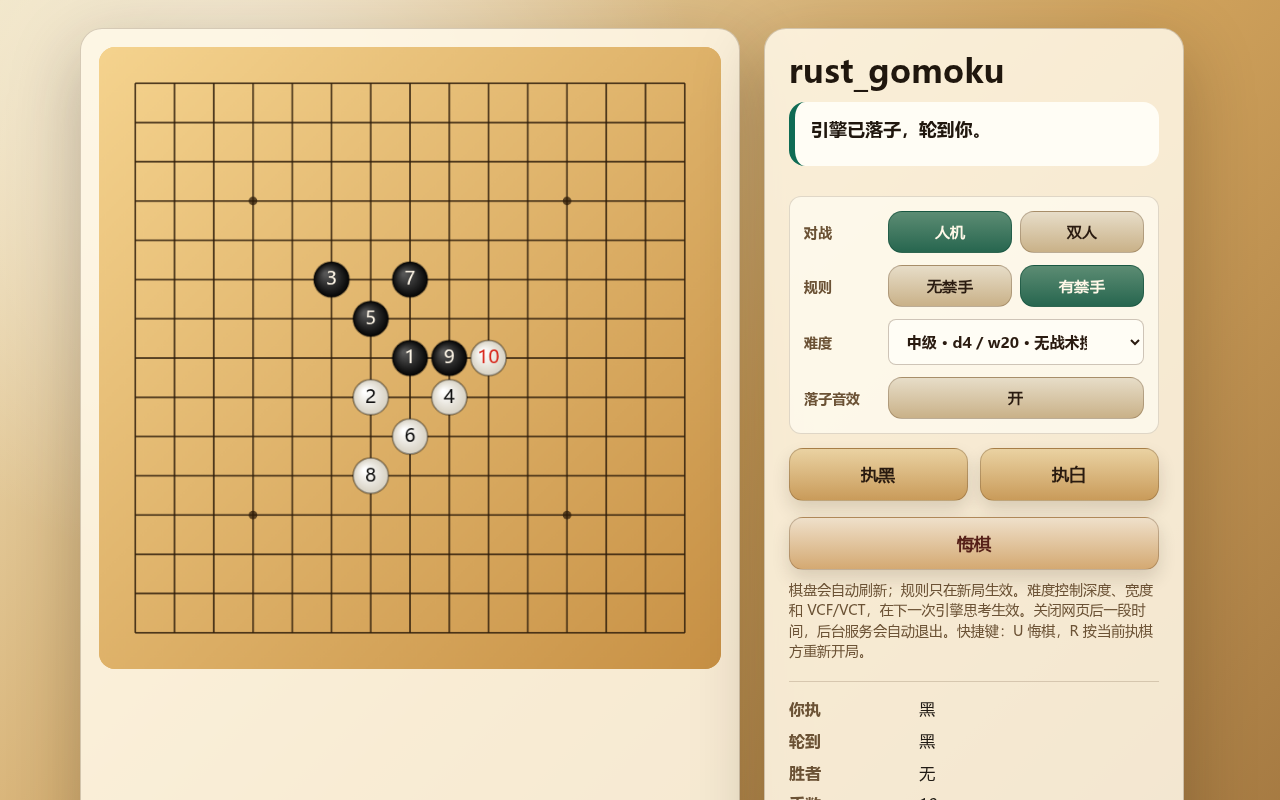
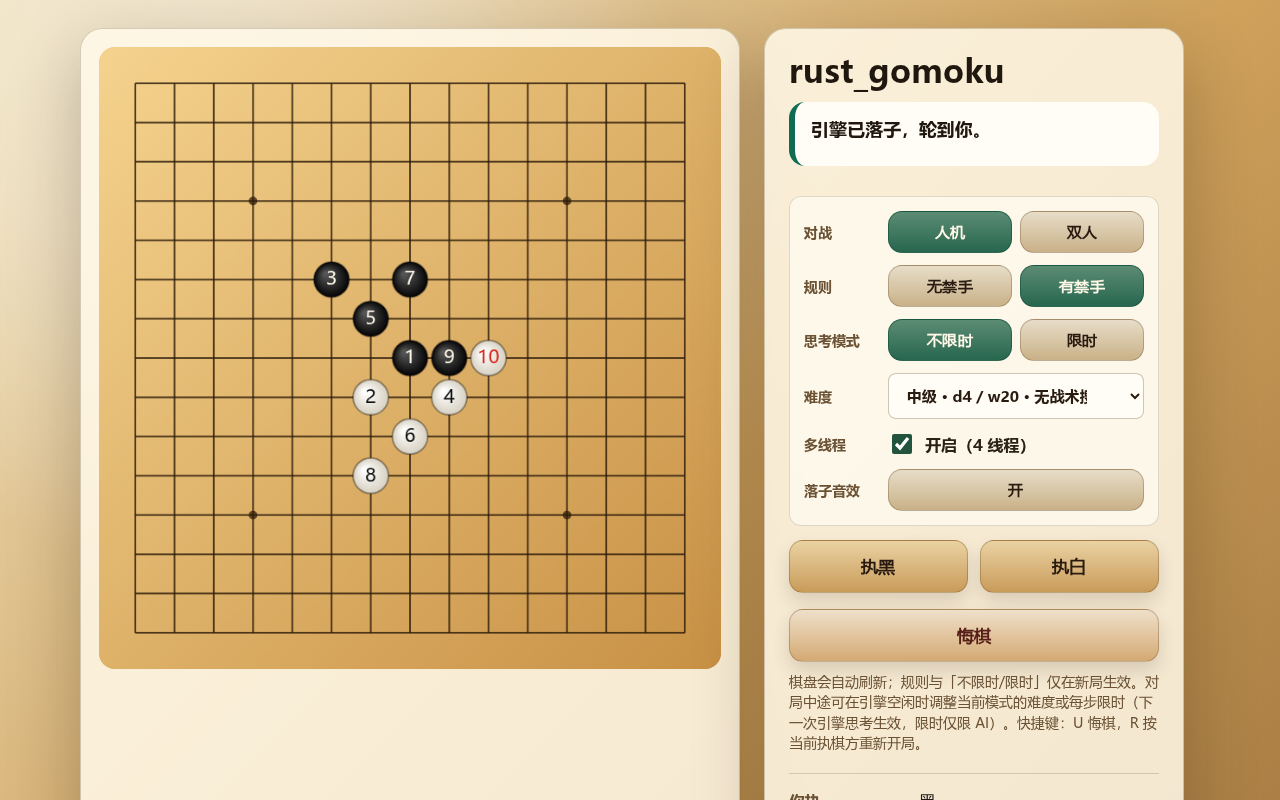
Update READMEs and desktop GUI screenshot for v0.1.16

Changed region(s): [[0.5938, 0.375, 0.9062, 1.0]]

diff --git a/README-cn.md b/README-cn.md
@@ -4,17 +4,17 @@
 
 ## 界面截图
 
-Windows x64 程序和已签名的 Android ARM64 APK 可从[最新 Release](https://github.com/chubbyk-uu/rust-gomoku/releases/latest)下载。
+Windows x64 程序和已签名的 Android ARM64 APK / AAB 可从[最新 Release](https://github.com/chubbyk-uu/rust-gomoku/releases/latest)下载。
 
 ### Windows / 桌面 GUI
 
-Windows 程序启动后打开本地网页界面。可与引擎对弈或进行双人对局，在右侧选择无禁手或连珠规则、调整难度。
+Windows 程序启动后打开本地网页界面。可与引擎对弈或进行双人对局，在右侧选择无禁手或连珠规则、切换不限时（五档难度）或限时（每步时间上限）思考模式，并可开关多线程搜索。
 
-![桌面 GUI：与引擎对弈，右侧提供规则与难度设置](docs/screenshots/desktop-gui.png)
+![桌面 GUI：与引擎对弈，右侧提供规则、思考模式、难度与多线程设置](docs/screenshots/desktop-gui.png)
 
 ### Android
 
-手机界面集中展示棋盘、当前回合，以及悔棋和新局操作。提供入门、初级、中级、高级、大师五档难度，默认中级。
+手机界面集中展示棋盘、当前回合，以及悔棋和新局操作。支持不限时（入门、初级、中级、高级、大师五档难度，默认中级）和限时（每步 `200 ms`–`5000 ms`）两种思考模式，以及多线程搜索开关。
 
 <p>
   <img src="docs/screenshots/android-portrait.png" alt="Android 竖屏界面：连珠对局进行中" width="320">
@@ -38,6 +38,8 @@ Windows 程序启动后打开本地网页界面。可与引擎对弈或进行双
 - Rust/reference 差分、Rust/reference 对战、双引擎对战和同局面 benchmark 脚手架。
 - 连珠 oracle、定向密集压测、一维穷举、候选诊断、性能测试和规则感知对局裁判工具。
 - 非 root 候选排序成本优化：保持原排序 key 不变，减少 `getmi` 和候选复制开销（惰性 tie-group `getmi` + TT best move 延迟主排序）。
+- 四方向增量 `Pattern4` 位棋盘/LUT 战术加速（VCF 与 VCT），在连珠密集 VCT6 局面提速 `5.5x`–`8.6x`，包含精确连珠活三超集过滤（`maybe_33`）及白棋 `B4` 落子后对黑方禁手防点的复验。
+- 多线程 ABDADA 搜索（`--threads N` / `INFO thread_num N`），配备 `1/64` 层细粒度 TT 深度编码（`store = floor(d * 64)`、`probe = ceil(d * 64)`，编码上限 50 层；超过 50 层仅使用 TT 走法提示）、完整子层替换优先级，以及按单/多线程模式隔离的双平面共享置换表。
 - SlowRenju、Rapfi 等外部参考引擎按需从本地 checkout 使用；仓库不再提交轻量对手或完整 Python reference。
 
 可选诊断/实验：
@@ -49,8 +51,8 @@ Windows 程序启动后打开本地网页界面。可与引擎对弈或进行双
 GUI 入口仅在单线程（`--threads 1`）手动对局时默认开启 `overlap_vct_alphabeta`；多线程模式下保持关闭以避免额外 64 MiB TT 快照与核心争抢。Gomocup、diff、case probe 和库默认均保持关闭。
 历史性能实验和止损结论记录在 `docs/perf-log.md`，README 不重复维护失败方案清单。
 Android 架构、手机界面、JNI 边界和分阶段验证门槛记录在
-`docs/android-app-design.md`。Android 应用已可构建 ARM64 APK，并通过
-JNI 使用共享 Rust 控制器。
+`docs/android-app-design.md`。Android 应用可构建 ARM64 debug 与已签名
+release 产物（APK / AAB），并通过 JNI 使用共享 Rust 控制器。
 
 ## 默认参数
 
@@ -76,7 +78,9 @@ JNI 使用共享 Rust 控制器。
 | `static_board` | 开启 |
 | `dynamic_board_margin` | `4` |
 
-桌面 GUI 和 Android 应用提供五档共享难度：
+桌面 GUI 和 Android 应用支持两种思考模式：
+
+1. **不限时模式**（默认）——提供五档共享固定深度难度：
 
 | 难度 | 搜索参数 | VCF / VCT |
 |---|---:|---:|
@@ -87,6 +91,8 @@ JNI 使用共享 Rust 控制器。
 | 大师 | `d8 / w40` | 开启，`root_vct_depth=6` |
 
 中级是桌面 GUI 和 Android 应用的默认难度。难度控制深度、宽度和战术搜索。
+
+2. **限时模式**——提供每步时间上限档位（`200 ms`、`500 ms`、`1000 ms`、`2000 ms`、`5000 ms`，默认 `500 ms`），在 `w40` 下迭代加深至最多 `d25` 并开启 VCF/VCT（限时模式下 root VCT 最多使用整手预算的 30%，确保未算杀成功时 alpha-beta 仍有充足搜索时间）。
 
 与 Python reference 严格差分或复现实验时，通常显式使用 `depth=6,width=20,root_vct_depth=4`。
 
@@ -122,6 +128,16 @@ cargo test --quiet
 python3 scripts/run_diff.py --jobs 10
 ```
 
+Android debug/release 验证与构建：
+
+```bash
+cd android
+./gradlew test lint assembleDebug
+./gradlew test lint assembleRelease bundleRelease
+```
+
+Release 签名默认读取 `~/.android/rust-gomoku-release.properties`；本地签名文件格式和覆盖环境变量详见 `docs/android-app-design.md`。
+
 Gomocup smoke：
 
 ```bash
@@ -135,7 +151,7 @@ printf 'START 15\nINFO rule 4\nBEGIN\nEND\n' | cargo run --quiet --bin gomocup_e
 cargo run --release --bin gomoku_gui
 ```
 
-GUI 会自动用默认浏览器打开 `http://127.0.0.1:18080`；如需关闭自动打开行为，可加 `--no-open-browser`。GUI 支持人机对战（执黑/执白）和双人对弈（两人在同一棋盘轮流落子、不启动引擎）两种对战模式，无禁手或连珠规则、五档难度、悔棋、重新开局、异步思考、手数显示、胜负弹窗和状态面板；快捷键 `U` 悔棋，`R` 重新开局。双人模式下会隐藏仅人机模式有意义的控件（执棋、难度）。规则选择只在新局开始时生效；连珠黑方回合会用红叉标出禁手点，点击禁手点会被拒绝且不会落子（两种模式都如此）。难度只在引擎未思考时允许切换，不重置当前棋局，只影响下一次引擎思考。
+GUI 会自动用默认浏览器打开 `http://127.0.0.1:18080`；如需关闭自动打开行为，可加 `--no-open-browser`。GUI 支持人机对战（执黑/执白）和双人对弈（两人在同一棋盘轮流落子、不启动引擎）两种对战模式，无禁手或连珠规则、不限时（五档难度）和限时（每步 `200 ms`–`5000 ms`）两种思考模式、多线程搜索开关、悔棋、重新开局、异步思考、手数显示、胜负弹窗和状态面板；快捷键 `U` 悔棋，`R` 重新开局。双人模式下会隐藏仅人机模式有意义的控件（执棋、思考模式、难度/每步限时、多线程）。空棋盘时切换对战模式、规则或思考模式会立即生效；落子后（`move_count > 0`）切换会显示待生效提示，并在点击开局按钮开始新局时生效。连珠黑方回合会用红叉标出禁手点，点击禁手点会被拒绝且不会落子（两种模式都如此）。难度、每步限时和多线程开关可在对局中途引擎空闲时随时调整，不重置当前棋局，只影响下一次引擎思考。
 
 Gomocup engine：
 
@@ -170,7 +186,7 @@ target/release/gomocup_engine --tt-bits 22
 - `INFO root_profile 0|1`
 
 VCF、VCT 与 alpha-beta 在一手棋内共用截止时间和累计节点预算。同时给出
-`timeout_turn` 与 `time_left` 时取较小值。搜索采用协作式中止，完成当前棋盘
+`timeout_turn` 与 `time_left` 时取较小值；限时搜索下 root VCT 子预算上限为整手预算的 30%，确保未算杀时留出 alpha-beta 搜索时间。搜索采用协作式中止，完成当前棋盘
 操作、选择合法后备手及协议初始化仍可能产生额外耗时。限额搜索报告的节点数
 包含战术节点，无限额搜索沿用 alpha-beta 节点数。
 

diff --git a/README.md b/README.md
@@ -6,17 +6,17 @@ A Chinese version of this document is available at [README-cn.md](README-cn.md).
 
 ## Screenshots
 
-Download the Windows x64 program and signed Android ARM64 APK from the [latest release](https://github.com/chubbyk-uu/rust-gomoku/releases/latest).
+Download the Windows x64 program and signed Android ARM64 APK / AAB from the [latest release](https://github.com/chubbyk-uu/rust-gomoku/releases/latest).
 
 ### Windows / Desktop GUI
 
-The Windows program opens this local browser interface. Play against the engine or another person, choose freestyle or Renju, and adjust difficulty from the side panel.
+The Windows program opens this local browser interface. Play against the engine or another person, choose freestyle or Renju, switch between Untimed (five difficulty presets) and Timed (per-move time budget) modes, and toggle multi-threaded search from the side panel.
 
-![Desktop GUI showing a game against the engine and the rule and difficulty controls](docs/screenshots/desktop-gui.png)
+![Desktop GUI showing a game against the engine and the rule, thinking-mode, difficulty, and multi-thread controls](docs/screenshots/desktop-gui.png)
 
 ### Android
 
-The mobile interface puts the board, turn status, and undo/new-game controls together. Five difficulty levels range from Beginner to Master; Intermediate is the default.
+The mobile interface puts the board, turn status, and undo/new-game controls together. It supports both Untimed mode (five difficulty levels from Beginner to Master; Intermediate is the default) and Timed mode (`200 ms`–`5000 ms` per move), plus a multi-threaded search toggle.
 
 <p>
   <img src="docs/screenshots/android-portrait.png" alt="Android interface in portrait orientation during a Renju game" width="320">
@@ -40,6 +40,8 @@ Completed:
 - Rust/reference diff harness, Rust/reference matches, head-to-head matches, and same-position benchmark scaffolding.
 - Renju oracle, dense-stress, exhaustive-line, candidate-diagnostic, performance, and rule-aware match-referee tooling.
 - Non-root candidate ordering cost optimization: keeps the original ordering key while reducing `getmi` and candidate copy overhead (lazy tie-group `getmi` + TT-best-move deferred primary sort).
+- Incremental 4-direction `Pattern4` bitboard/LUT tactical accelerator for VCF and VCT (`5.5x`–`8.6x` speedup on dense Renju VCT6 cases), with exact Renju open-three superset filtering (`maybe_33`) and White `B4` post-move forbidden-reply re-verification.
+- Multi-threaded ABDADA search (`--threads N` / `INFO thread_num N`) with `1/64`-ply sub-ply TT depth encoding (`store = floor(d * 64)`, `probe = ceil(d * 64)` up to 50 plies; `> 50` plies degrades to move-ordering hints only), full sub-ply replacement priority, and mode-isolated dual TT bucket planes for safe concurrent single/multi-threaded sharing.
 - External reference engines such as SlowRenju and Rapfi are used from local
   checkouts when needed; bundled lightweight opponents are no longer committed.
 
@@ -81,7 +83,9 @@ The main defaults live in `src/config.rs`.
 | `static_board` | on |
 | `dynamic_board_margin` | `4` |
 
-The desktop GUI and Android app expose five shared difficulty presets:
+The desktop GUI and Android app support two thinking modes:
+
+1. **Untimed mode** (default) — five shared fixed-depth difficulty presets:
 
 | Difficulty | Search | VCF / VCT |
 |---|---:|---:|
@@ -91,7 +95,9 @@ The desktop GUI and Android app expose five shared difficulty presets:
 | Senior | `d6 / w30` | on, `root_vct_depth=6` |
 | Master | `d8 / w40` | on, `root_vct_depth=6` |
 
-Intermediate is the default for the desktop GUI and Android app. Difficulty controls depth, width, and tactical search.
+Intermediate is the default difficulty for the desktop GUI and Android app. Difficulty controls depth, width, and tactical search.
+
+2. **Timed mode** — per-move time limit presets (`200 ms`, `500 ms`, `1000 ms`, `2000 ms`, `5000 ms`; default `500 ms`), running iterative deepening up to `d25 / w40` with VCF/VCT enabled (root VCT is capped at 30% of the move time budget so alpha-beta always retains search time).
 
 For strict diffs against the Python reference or reproducing reference experiments, `depth=6,width=20,root_vct_depth=4` is typically passed explicitly.
 
@@ -152,7 +158,7 @@ Launch the GUI:
 cargo run --release --bin gomoku_gui
 ```
 
-The GUI opens `http://127.0.0.1:18080` in the default browser automatically; pass `--no-open-browser` to disable that behavior. It supports a vs-engine mode (playing black/white) and a two-player mode (two humans alternating on the same board with no engine), freestyle or Renju rules, five difficulty levels, undo, restart, async thinking, move number display, a result dialog, and a status panel; shortcuts: `U` to undo, `R` to restart. The engine-only controls (side, difficulty) are hidden in two-player mode. Rule selection applies only when starting a new game. During a Renju black turn, forbidden intersections are marked with red crosses and forbidden input is rejected without placing a stone (this holds in both modes). Difficulty can only change while the engine is idle and affects the next engine think without resetting the board.
+The GUI opens `http://127.0.0.1:18080` in the default browser automatically; pass `--no-open-browser` to disable that behavior. It supports a vs-engine mode (playing black/white) and a two-player mode (two humans alternating on the same board with no engine), freestyle or Renju rules, Untimed (five difficulty levels) and Timed (`200 ms`–`5000 ms` per move) thinking modes, a multi-threaded search toggle, undo, restart, async thinking, move number display, a result dialog, and a status panel; shortcuts: `U` to undo, `R` to restart. The engine-only controls (side, thinking mode, difficulty/time limit, multi-threading) are hidden in two-player mode. On an empty board, rule, game mode, and thinking mode apply immediately; once a game is underway (`move_count > 0`), changing them shows a pending notice and takes effect when starting the next game. During a Renju black turn, forbidden intersections are marked with red crosses and forbidden input is rejected without placing a stone (this holds in both modes). Difficulty, per-move time limit, and the multi-thread toggle can be adjusted mid-game while the engine is idle and affect the next engine move without resetting the board.
 
 Gomocup engine:
 
@@ -187,7 +193,9 @@ Common `INFO` commands:
 - `INFO root_profile 0|1`
 
 VCF, VCT and alpha-beta share a deadline and cumulative node budget across a move.
-When both time controls are given the smaller limit applies. Cancellation is
+When both time controls are given the smaller limit applies; under a time limit,
+root VCT is capped at 30% of the move budget so alpha-beta still runs when VCT
+does not find a forced win. Cancellation is
 cooperative. Finishing a board operation, selecting a legal fallback and
 protocol setup can add wall time. Under a budget, the reported node count
 includes tactical visits. Without limits it retains the alpha-beta count.
